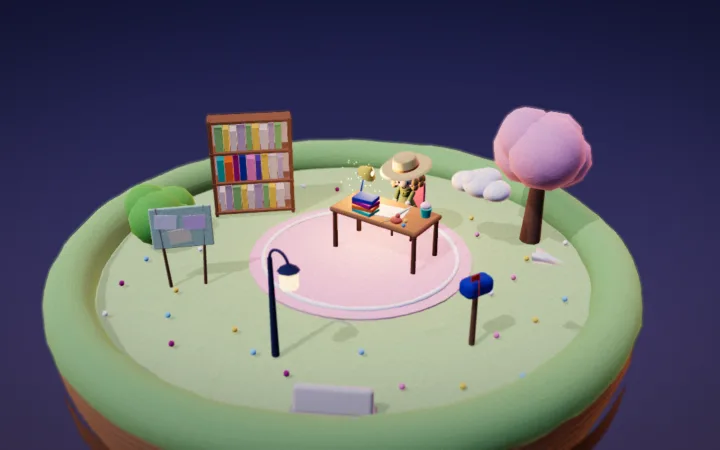
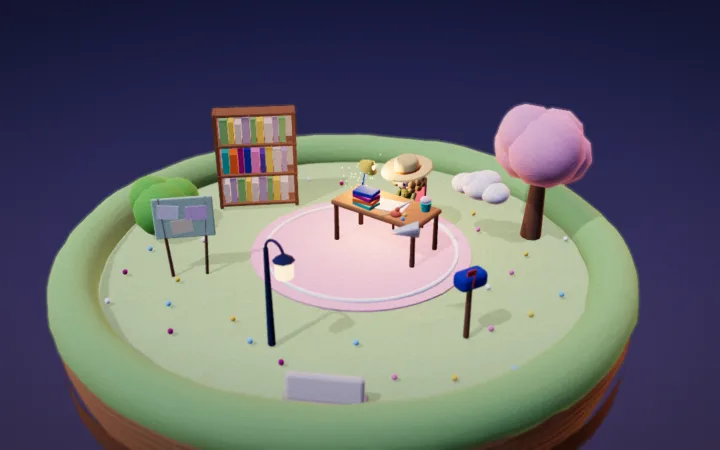
Плавная анимация, автор на облачке, шляпа без мерцания (spec v0.9) (#16)
- Анимация и тени каждый кадр вместо 12 кадров/с; дальние планеты — 12 раз/с; счётчик ?fps
- Автор не приземляется, на «Асфодели» остаётся внизу
- Шляпа: тулья одной фигурой, лента с зазором; якорь реплики над шляпой
- Первая реплика: без стрелки, приглашение включить музыку

Claude-Session: https://claude.ai/code/session_01QsQA17zbFwrPucVXSc2DSr

diff --git a/src/world/main.js b/src/world/main.js
@@ -28,7 +28,7 @@ renderer.toneMapping = THREE.ACESFilmicToneMapping;
 renderer.toneMappingExposure = 1.05;
 renderer.shadowMap.enabled = true;
 renderer.shadowMap.type = THREE.PCFSoftShadowMap;
-renderer.shadowMap.autoUpdate = false; // тени пересчитываются 12 раз в секунду вместе с покадровой анимацией
+// тени — каждый кадр (spec v0.9): после склейки сцены это дёшево, а тень больше не отстаёт от автора рывками
 
 const painter = createPainter(renderer, mobile);
 const scene = new THREE.Scene();
@@ -104,12 +104,11 @@ const local3 = (k, x, y, z) => () => atL(k, x, y, z);
 const seatW = () => { const v = new THREE.Vector3(); P.home.seat.getWorldPosition(v); return v; };
 const STATIONS = [
   // приветствие: автор близко и по центру кадра, лицом к гостю (spec v0.6)
-  { p: 0.00, say: 'intro', wave: true, onCloud: true, pos: () => { const c = V(10, 34, 64); return c.clone().add(V(40, 0, -30).sub(c).normalize().multiplyScalar(9)).add(V(0, -2.6, 0)); } },
-  { p: 0.16, say: 'kuv', pos: local3('kuv', 2.2, 0.25, 0.6), planet: 'kuv' },
+  { p: 0.00, say: 'intro', wave: true, onCloud: true, pos: () => { const c = V(10, 34, 64); return c.clone().add(V(40, 0, -30).sub(c).normalize().multiplyScalar(9)).add(V(0, -2.5, 0)); } },
+  { p: 0.16, say: 'kuv', pos: local3('kuv', 2.5, 0.3, 1.3), planet: 'kuv' }, // ниже в кадре: над автором есть место для реплики
   { p: 0.39, say: 'dub', pos: local3('dub', 4.2, 0.06, 1.2), planet: 'dub' }, // трава справа от площадки: не за щитом (проверено лучом сверху)
   { p: 0.61, say: 'fan', pos: local3('fan', 4.2, 0.06, -1.0), planet: 'fan' }, // лужайка справа: не в речке и не за скамейкой (проверено лучом сверху)
   { p: 0.80, say: 'asf', pos: local3('asf', 2.4, 0.12, 2.1), planet: 'asf' },
-  { p: 0.88, say: 'asf', pos: local3('asf', 2.4, 10.45, 0.2) },
   { p: 1.00, say: 'home', sit: true, pos: seatW, seatQuat: (q) => P.home.seat.getWorldQuaternion(q) },
 ];
 const author = buildAuthor(scene, STATIONS);
@@ -189,6 +188,7 @@ function progress() {
   return anchors[anchors.length - 1][1];
 }
 let target = 0, cur = 0;
+let fpsAt = 0; const fpsEl = location.search.includes('fps') ? Object.assign(document.body.appendChild(document.createElement('div')), { style: 'position:fixed;left:10px;top:10px;z-index:99;font:12px/1 monospace;background:#000a;color:#fff;padding:6px 8px;border-radius:6px;pointer-events:none' }) : null;
 let homeP = null, homeY = null, backUntil = 0; // где была главная, когда открыли страницу (spec v0.8)
 const camPos = V(10, 60, 90), camLook = V(40, 0, -30); let skyP = 0, first = true;
 const onScroll = () => { target = progress(); };
@@ -387,24 +387,23 @@ function tick() {
 
   if (curZone !== 'kuv' && P.kuv.open) lily(0);
   // покадровая анимация (spec v0.5): герои и предметы живут на 12 кадрах в секунду, камера и полёт автора — плавно
-  // Облегчение (spec v0.7): планеты, герои и тени обновляются только на новом «кадре» мультфильма, а не 60 раз в секунду
-  const ts = Math.floor(t * 12) / 12;
-  if (ts !== lastTs || curZone !== lastZone) {
-    lastTs = ts; lastZone = curZone;
-    P.kuv.update(ts, reduce);
-    P.dub.update(ts, reduce, view ? (curZone === 'dub' ? 1 : 0) : local(p, 0.3, 0.39));
-    P.fan.update(ts, reduce);
-    const stairs = view ? (curZone === 'asf' ? 0.5 : 0) : local(p, 0.74, 0.88);
-    P.asf.update(ts, reduce, stairs);
-    P.home.update(ts, reduce, night);
-    heroes.update(ts, reduce);
-    life.update(ts, night);
+  // Плавная анимация (spec v0.9): текущая планета, герои, автор и деревья — каждый кадр;
+  // дальние планеты и проверка детализации — 12 раз в секунду (их почти не видно, а работа процессору меньше)
+  const t12 = Math.floor(t * 12), slow = t12 !== lastTs || curZone !== lastZone; lastTs = t12; lastZone = curZone;
+  const upd = (k) => slow || k === curZone;
+  if (upd('kuv')) P.kuv.update(t, reduce);
+  if (upd('dub')) P.dub.update(t, reduce, view ? (curZone === 'dub' ? 1 : 0) : local(p, 0.3, 0.39));
+  if (upd('fan')) P.fan.update(t, reduce);
+  if (upd('asf')) P.asf.update(t, reduce, view ? (curZone === 'asf' ? 0.5 : 0) : local(p, 0.74, 0.88));
+  if (upd('home')) P.home.update(t, reduce, night);
+  heroes.update(t, reduce);
+  life.update(t, night);
+  if (slow) {
     figs.forEach((f) => { f.getWorldPosition(figW); f.visible = figW.distanceTo(camPos) < 42; });
     // детализация: отдельная мелочь, которая на экране меньше ~6 px, уходит на слой 1 (не рисуется)
     bakeInfo.rest.forEach(({ o, r }) => { o.getWorldPosition(figW); o.layers.set(r / figW.distanceTo(camPos) > 0.0025 ? 0 : 1); });
-    renderer.shadowMap.needsUpdate = true;
   }
-  const say = author.update(ts, p, camPos, reduce);
+  const say = author.update(t, p, camPos, reduce);
   // след облачка: вмятина в траве остаётся там, где автор приземлялся
   const la = author.landedAt;
   if (la && la.planet && !dented.has(la)) {
@@ -426,6 +425,8 @@ function tick() {
   // фокус объектива: на авторе, пока она говорит, иначе — на точке взгляда камеры
   // само снижает чёткость кадра, если видеокарта не успевает (средний кадр дольше 24 мс)
   const now = performance.now(); if (lastNow) frameMs += (Math.min(100, now - lastNow) - frameMs) * 0.05; lastNow = now;
+  // ?fps в адресе — счётчик кадров в углу: проверить скорость на своём устройстве
+  if (fpsEl && now - fpsAt > 500) { fpsAt = now; fpsEl.textContent = `${Math.round(1000 / frameMs)} fps · ${frameMs.toFixed(1)} мс · ×${pr.toFixed(2)}`; }
   if (++perfN > 90) { perfN = 0; if (frameMs > 21 && pr > 0.8) { pr = Math.max(0.75, pr - 0.25); renderer.setPixelRatio(pr); resize(); } }
   painter.render(scene, camera, night, sayNow ? camPos.distanceTo(author.root.position) : camPos.distanceTo(camLook));
   if (++frames === 3) opts.onReady?.(); // первые кадры готовы — прелоадер можно снять

diff --git a/src/world/figures.js b/src/world/figures.js
@@ -61,12 +61,12 @@ export function figure(o = {}) {
     const side = sphere(0.18, hair, 14, 10); side.scale.set(1.3, 0.5, 0.6); side.position.set(-0.08, 0.17, 0.2); side.rotation.z = 0.35; head.add(side);
   }
   if (o.hat) {
-    // соломенная шляпа с широкими полями и лентой
+    // соломенная шляпа (spec v0.9): тулья — одна фигура вращения, без совпадающих поверхностей (иначе мерцает)
     const straw = clay(o.hat, 0.95), hat = new THREE.Group();
-    const brim = mesh(new THREE.CylinderGeometry(0.56, 0.6, 0.035, 36), straw); hat.add(brim);
-    const crown = mesh(new THREE.CylinderGeometry(0.27, 0.31, 0.22, 28), straw); crown.position.y = 0.12; hat.add(crown);
-    const top = sphere(0.27, straw, 24, 10); top.scale.y = 0.25; top.position.y = 0.23; hat.add(top);
-    const band = mesh(new THREE.CylinderGeometry(0.315, 0.315, 0.06, 28, 1, true), clay(o.hatBand ?? 0x9b6b3c, 0.8)); band.position.y = 0.04; hat.add(band);
+    const brim = mesh(new THREE.CylinderGeometry(0.58, 0.6, 0.04, 40), straw); brim.receiveShadow = false; hat.add(brim);
+    const prof = [[0.31, 0], [0.295, 0.1], [0.28, 0.19], [0.255, 0.235], [0.19, 0.265], [0.1, 0.28], [0.001, 0.285]].map(([x, y]) => new THREE.Vector2(x, y));
+    const crown = mesh(new THREE.LatheGeometry(prof, 32), straw); crown.receiveShadow = false; hat.add(crown);
+    const band = mesh(new THREE.CylinderGeometry(0.33, 0.335, 0.06, 32, 1, true), clay(o.hatBand ?? 0x9b6b3c, 0.8)); band.position.y = 0.05; band.receiveShadow = false; hat.add(band);
     hat.position.set(0, 0.25, -0.02); hat.rotation.set(-0.12, 0, 0.08); head.add(hat);
   }
   if (o.necklace) {
@@ -81,7 +81,7 @@ export function figure(o = {}) {
   if (o.wings) { wings = [-1, 1].map((s) => { const w = sphere(0.3, M.wing, 16, 10); w.scale.set(0.18, 0.9, 0.5); w.position.set(s * 0.18, 0.86, -0.2); w.rotation.z = s * 0.5; w.castShadow = false; body.add(w); return w; }); }
   if (o.prop) { const p = o.prop(); arms[1].add(p); }
 
-  const anchor = new THREE.Object3D(); anchor.position.y = 1.62; body.add(anchor);
+  const anchor = new THREE.Object3D(); anchor.position.y = o.hat ? 1.95 : 1.62; body.add(anchor); // со шляпой — над полями, чтобы бабл не наезжал
   g.scale.setScalar(o.scale ?? 1);
   const seed = Math.random() * 10;
   g.userData.anchor = anchor;

diff --git a/src/content/home.ts b/src/content/home.ts
@@ -66,6 +66,7 @@ export const say = {
     answer:
       "Я пишу стихи для малышей, повести о школьнице Ясе и прозу для взрослых. Моя повесть «Цветные запахи лета и немного фанданго» вышла в финал премии им. В. П. Крапивина.",
     invite: "Приглашаю вас в путешествие по мирам моих книг. Листайте — полетели!",
+    music: "Включите музыку — с ней легче погрузиться в атмосферу моих книг.", // Ник 2026-10-31
   },
   kuv: "Это «Кувшинки» — мои стихи для малышей. Звёздный кит, остров потерянных носков и мамин карман: здесь обычный день ребёнка становится сказкой. Кажется, тут что-то умеет раскрываться.",
   dub: "Здесь живёт первоклассница Яся из повести «Дуб, орех и мочало». У неё есть пёс Котя, подруги Соня и Стеша и баскетбол. А ещё Яся умеет мечтать так, чтобы сбывалось. Дуб, орех или мочало — выбирайте сами.",

diff --git a/src/world/author.js b/src/world/author.js
@@ -49,10 +49,10 @@ export function buildAuthor(scene, stations) {
         // у края окна посадки облачко приподнимается — взлёт и посадка мягкие
         const d = Math.abs(p - S.at.p); land = 1 - smooth(THREE.MathUtils.clamp((d - W * 0.5) / (W * 0.5), 0, 1));
         if (!sit && S.at.hover) land = 0.4;
-        if (S.at.onCloud) land = 0; // приветствие: стоит на облачке в воздухе
+        land = sit ? land : 0; // на планеты не приземляется (spec v0.9): всегда на облачке рядом, садится только за свой стол
       }
       root.position.copy(tmp);
-      if (!sit) root.position.y += (1 - land) * 0.6 + (reduce ? 0 : Math.sin(t * 1.6) * 0.06 * (1 - land * 0.7));
+      if (!sit) root.position.y += (1 - land) * 0.2 + (reduce ? 0 : Math.sin(t * 1.6) * 0.06 * (1 - land * 0.7));
 
       // поворот: за столом — лицом к столу, иначе — к камере
       if (sit && S.at.seatQuat) { S.at.seatQuat(q); e.setFromQuaternion(q, 'YXZ'); yaw = e.y; }

diff --git a/src/app/page.tsx b/src/app/page.tsx
@@ -52,8 +52,8 @@ export default function Home() {
           <div className="say say-intro" data-anchor="author" data-say="intro" data-near="90">
             <h1 className="say-title">{say.intro.h1}</h1>
             <p>{say.intro.answer}</p>
-            <p className="mt-2">{say.intro.invite} <span className="world-only world-hint" aria-hidden>↓</span></p>
-            <p className="world-only mt-2"><MusicButton /></p>
+            <p className="mt-2">{say.intro.invite}</p>
+            <p className="world-only mt-2">{say.intro.music}<br /><MusicButton /></p>
           </div>
         </section>
 

diff --git a/specs/05-tasks.md b/specs/05-tasks.md
@@ -99,6 +99,12 @@
 - [x] **M5** Склейка неподвижных деталей, детализация по расстоянию — *проверка:* команды видеокарте на кадр, скриншоты 6 сцен
 - [x] **M6** Постеры и OG; `npm run check`
 
+## Этап 14. Плавность (spec v0.9, решение Ника 2026-10-31)
+- [x] **F1** Шляпа без мерцания (одна фигура вращения, лента с зазором)
+- [x] **F2** Первая реплика: без «↓», приглашение включить музыку
+- [x] **F3** Автор без посадок, на «Асфодели» внизу — *проверка:* скриншоты приветствия, «Кувшинок», «Дуба», «Цветных запахов», «Асфодели»
+- [x] **F4** Анимация и тени каждый кадр; счётчик `?fps`; постеры; `npm run check`
+
 ## Вопросы
 | Задача | Вопрос | Кому | Ответ |
 |---|---|---|---|
@@ -125,3 +131,4 @@
 - 2026-10-31 · H1–H8 · от руки (spec v0.6): Caveat в `public/fonts` (size-adjust 122 %), Lora убран; прелоадер и OG — имя от руки, без знака; таблички книг и порог 16+ убраны, книги открываются у полки; фигурка автора по фото (`wavy`, оливковое платье, цепочка), приветствие на облачке по центру, фокус на авторе; листы бумаги для `.pop` и `.panel`, кнопки shadcn → `hand-link`; светлячки (`life.fly`); скролл сохраняется после закрытия попапа; тег «Разработка сайта nikalimp.ru»; `npm run check` — пройдена (geo-check 9.1).
 - 2026-10-31 · L1–L4 · подсказки и облегчение (spec v0.7): светлячки (`life.fly`, пруд «Кувшинок», поле Асфодели) убраны; ярлыки `.tag-act` над сюрпризами (якоря над габаритом предмета), Дом автора — ярлыки в одну строку; раскладка ярлыков без наездов (выше/ниже/спрятать); закрытие попапа — `beforetoggle` снимает фокус, фокус на кнопку без прокрутки, позиция держится 0,9 с, возврат с панели — на якорь; автор на «Дубе» (4.2; 1.2) и «Цветных запахах» (4.2; −1.0) — места проверены лучом сверху; MeshStandard вместо Physical, обновление планет и теней 12 раз/с, AO 8, DOF 12, MSAA 2, чёткость ≤ 1,5× с автоснижением; постеры пересняты; `npm run check` — пройдена (geo-check 9.1).
 - 2026-10-31 · M1–M6 · музыка и облегчение (spec v0.8): `lib/music.ts` (Web Audio, C–Am–F–G, 72 уд/мин) и `components/music.tsx`; H1 в прямой речи; прелоадер со шкалой и процентами по этапам; `contactShadow` убран; автор — `wavy` однотонная, шляпа `hat`; обложки двух книг (`coverRatio`); страница с главной — лист по центру, камера стоит, прокрутка возвращается; `world/bake.js` — склейка 1094 из 1533 деталей в 194 объекта, герои дальше 42 и мелочь < 6 px не рисуются, чёткость ≤ 1,25×; команд видеокарте на кадр: обзор ~560, планеты 150–210, Дом 69; `npm run check` — пройдена (geo-check 9.1).
+- 2026-10-31 · F1–F4 · плавность (spec v0.9): шляпа — `LatheGeometry`, лента r 0.33; реплика без «↓» + `say.intro.music`; автор всегда на облачке (подъём 0.2), станция 0.88 убрана, «Кувшинки» — (2.5; 1.3); якорь со шляпой 1.95; анимация текущей планеты, героев и теней — каждый кадр, дальних — 12 раз/с; `?fps`; постеры; `npm run check` — пройдена.

diff --git a/specs/02-spec.md b/specs/02-spec.md
@@ -1,7 +1,7 @@
 # 02 · Спецификация — Евгения Перлова
 
 > Главный документ проекта: **что** строим. **Как** — стандарт AI-Ready сайта. История правок — `changes.md`.
-> Версия: 0.8 · Статус: **утверждено Ником 2026-10-31** (v0.8 — музыка, автор в шляпе, обложки, страницы по центру, склейка сцены; решение Ника в чате)
+> Версия: 0.9 · Статус: **утверждено Ником 2026-10-31** (v0.9 — плавная анимация, автор на облачке, без мерцания шляпы; решение Ника в чате)
 > **Ветка:** новый сайт · **Режим:** ускоренный — сайт на домене Ника, spec и дизайн утверждает Ник (решение Ника 2026-10-29).
 
 ## 1. Коротко
@@ -68,6 +68,12 @@
 - Адрес = место в мире (решение Ника 2026-10-29). Каждая страница — тот же мир; камера летит к месту страницы, контент страницы — в попапе-панели. Закрыть панель — вернуться на главную к этому месту.
 - Весь текст — в HTML каждой страницы. Без WebGL и при «уменьшить движение» виджеты и панели становятся обычной страницей.
 ## 5. Контент страниц
+
+### v0.9 — плавность (решение Ника 2026-10-31, заменяет пункты v0.5–v0.8 ниже, где они расходятся)
+- Покадровой анимации 12 кадров/с нет: текущая планета, герои, автор, деревья и тени обновляются каждый кадр; дальние планеты и детализация — 12 раз в секунду. Ограничения FPS нет — частота экрана. `?fps` в адресе показывает счётчик кадров.
+- Автор не приземляется на планеты: парит на облачке рядом; садится только за свой стол. На «Асфодели» остаётся внизу (станции наверху нет). Следов облачка в траве больше нет — нет посадок.
+- Шляпа: тулья — одна фигура вращения, лента отодвинута — поверхности не совпадают, мерцания нет. Якорь реплики — над шляпой.
+- Первая реплика: без стрелки «↓»; «Включите музыку — с ней легче погрузиться в атмосферу моих книг.» и кнопка.
 
 ### v0.8 — музыка и облегчение (решение Ника 2026-10-31, заменяет пункты v0.4–v0.7 ниже, где они расходятся)
 - Музыка: своя колыбельная «музыкальная шкатулка», синтез в браузере (Web Audio, `src/lib/music.ts`), файла и чужих прав нет. Кнопка «Включить музыку» — в первой реплике автора; пока играет — нота в углу, чтобы выключить (WCAG 1.4.2). Сама музыка не включается.

diff --git a/specs/decisions.md b/specs/decisions.md
@@ -47,6 +47,7 @@
 | Весь сайт — одно 3D-пространство: без секций, интерфейс — парящие виджеты, контент — попапы по табличкам; адрес = место в мире; навигация — скролл + клик по планете; персонажи — глиняные фигурки; телефон — то же пространство, проще | Ник | 2026-10-29 |
 | Проводник — фигурка автора на облачке: приветствие, рассказ о каждой книге в бабле, в конце садится за стол и просит не отвлекать. Плашек H1 и 16+ нет | Ник | 2026-10-30 |
 | Виджетов нет (знак, меню, маршрут, копирайт, ПДн); интерактив без подсказок в виджетах; стиль — акварель и карандаш | Ник | 2026-10-30 |
+| Без покадровой анимации — плавно каждый кадр; автор не приземляется, на «Асфодели» внизу | Ник | 2026-10-31 |
 | Музыка — своя колыбельная в браузере, только по кнопке; автор в соломенной шляпе; страницы с главной — лист по центру без полёта камеры; склейка сцены для скорости | Ник | 2026-10-31 |
 | Светлячков нет — ярлыки-подсказки у интерактивных предметов; облегчение рендера (тени и анимации 12 раз/с, без «бархата», адаптивная чёткость) | Ник | 2026-10-31 |
 | Рукописный шрифт Caveat, имя вместо знака, попапы — листы бумаги; книги — на полке, без табличек на планетах; без порога 16+ в полёте; автор по фото; светлячки; тег «Разработка сайта nikalimp.ru» | Ник | 2026-10-31 |

diff --git a/specs/STATUS.md b/specs/STATUS.md
@@ -36,7 +36,8 @@
 - Сделано: spec v0.6 — от руки: рукописный шрифт, листы бумаги, книги на полке, автор по фото, светлячки (этап 11).
 - Сделано: spec v0.7 — подсказки вместо светлячков, облегчение, без перекрытий (этап 12).
 - Сделано: spec v0.8 — музыка, автор в шляпе, обложки двух книг, страницы по центру, склейка сцены (этап 13).
-- Следующий шаг: Ник проверяет плавность после склейки и музыку; Ник смотрит на компьютере и телефоне (плавность, нагрев — AO и размытие тяжелее акварели); автор сверяет внешность фигурки и реплики от первого лица; номер Метрики (тогда вернуть ссылку на политику и баннер cookies).
+- Сделано: spec v0.9 — плавная анимация, автор на облачке, шляпа без мерцания (этап 14).
+- Следующий шаг: Ник открывает сайт с ?fps на компьютере и телефоне и присылает цифры; Ник смотрит на компьютере и телефоне (плавность, нагрев — AO и размытие тяжелее акварели); автор сверяет внешность фигурки и реплики от первого лица; номер Метрики (тогда вернуть ссылку на политику и баннер cookies).
 
 ## Ждём
 | Что | От кого | С какой даты | Что делаем, пока ждём |

diff --git a/specs/changes.md b/specs/changes.md
@@ -40,3 +40,7 @@
 - Тени под планетами убраны; автор — однотонные волосы покороче и соломенная шляпа; обложки двух книг.
 - Страницы с главной — лист по центру, без полёта камеры и скачка после закрытия.
 - Склейка неподвижных деталей и детализация по расстоянию: команд видеокарте в 3–6 раз меньше.
+
+## v0.9 — 2026-10-31 · плавность (Ник)
+- Плавная анимация каждый кадр вместо 12 кадров/с; тени каждый кадр; счётчик `?fps`.
+- Автор на облачке без посадок, на «Асфодели» внизу; шляпа без мерцания; приглашение включить музыку.
